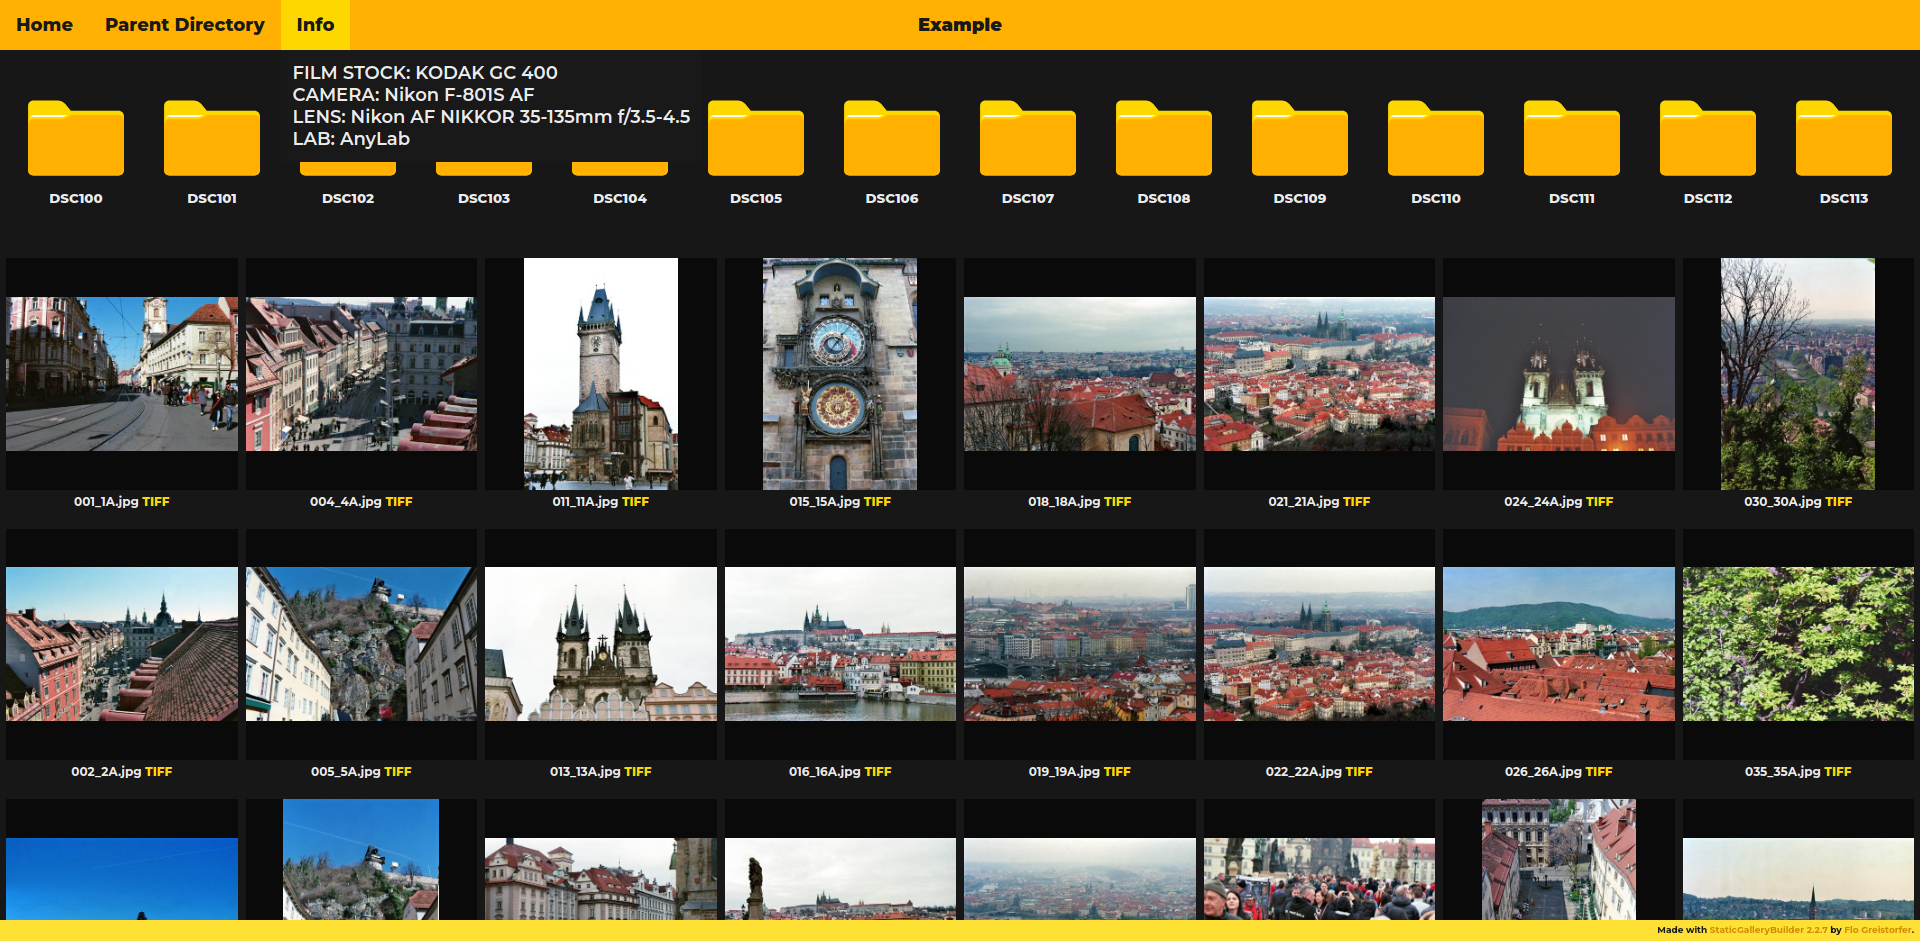
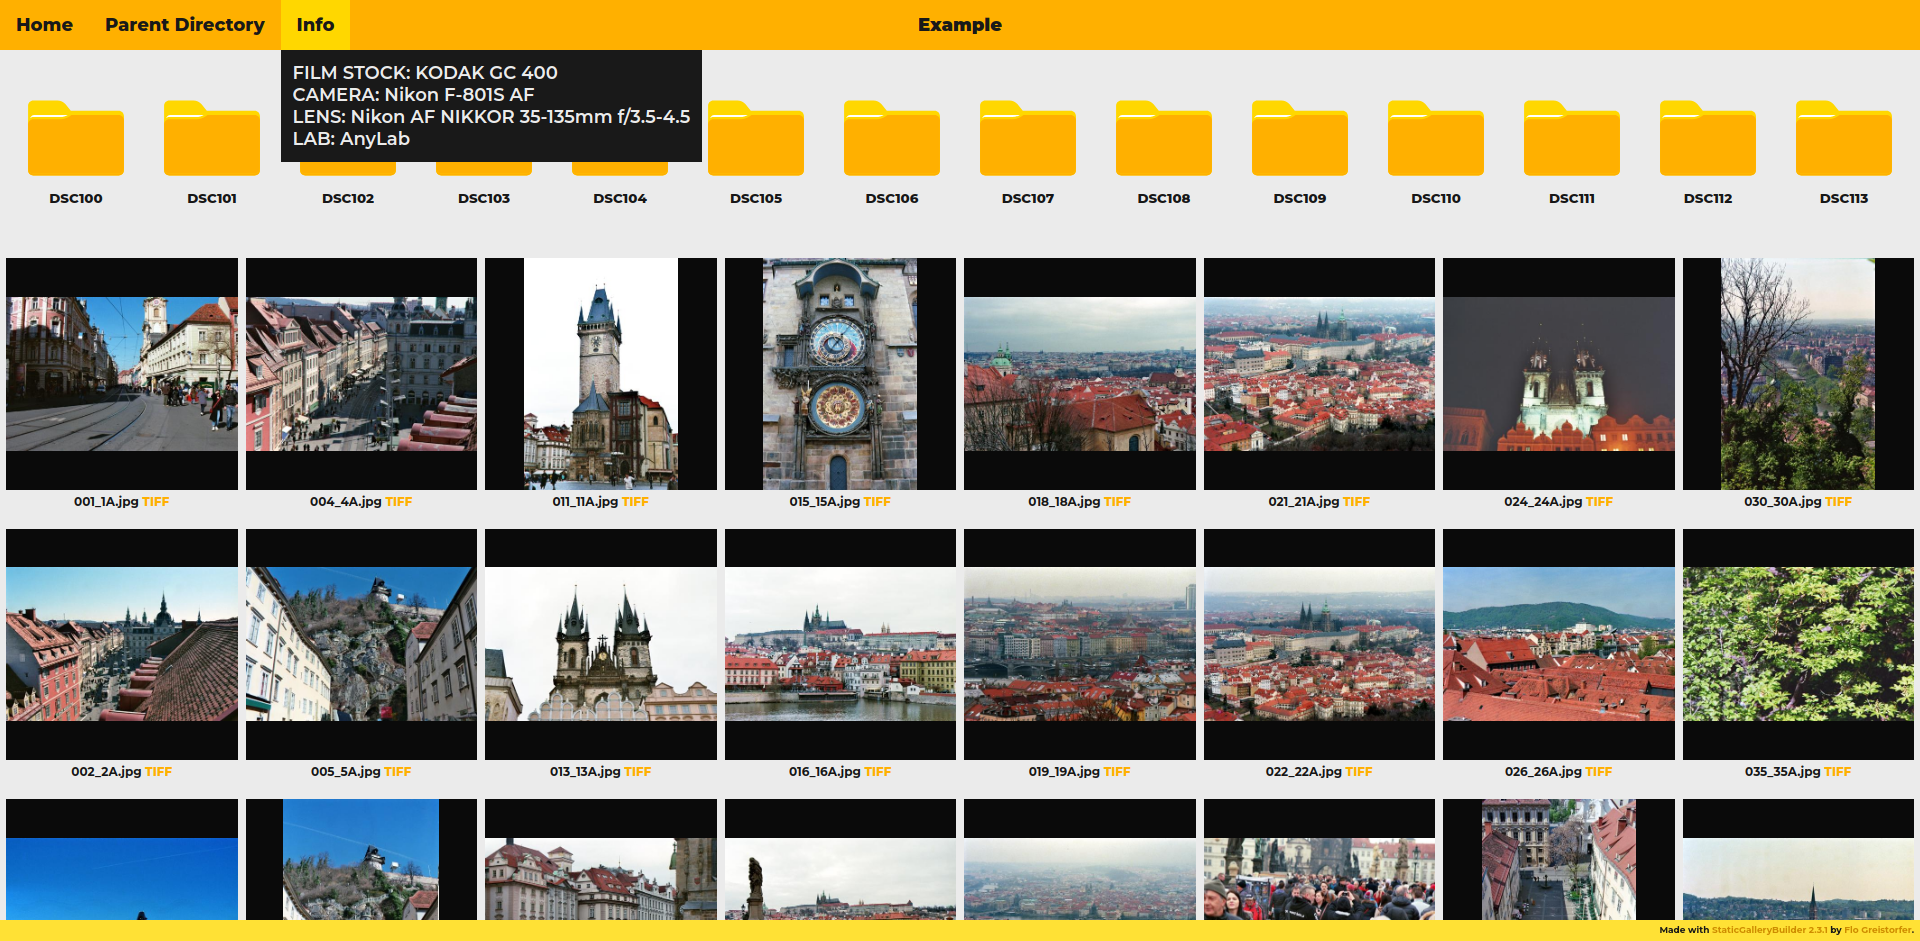
modified themes and added logging to preview generator

diff --git a/carnation.css b/carnation.css
@@ -5,22 +5,22 @@
   --color2: #b22222;
   --color3: #ff4500;
   --color4: #6e0000;
-  --bcolor1: #ebebeb;
+  --bcolor1: #171717;
   --bcolor2: #191919;
-  --bcolor3: #171717;
+  --bcolor3: #ebebeb;
   --bcolor4: #0a0a0a;
 }
 
 .navbar {
   font-weight: bold;
-  color: var(--bcolor1);
+  color: var(--bcolor3);
   background-color: var(--color1);
   font-weight: 900;
 }
 
 .navbar li a {
   font-weight: 800;
-  color: var(--bcolor1);
+  color: var(--bcolor3);
 }
 
 /* Change the link color on hover */
@@ -30,7 +30,7 @@
 }
 
 .footer {
-  color: var(--bcolor1);
+  color: var(--bcolor3);
   background-color: var(--color3);
   font-weight: 700;
 }

diff --git a/cornflower.css b/cornflower.css
@@ -5,22 +5,22 @@
   --color2: #1346a4;
   --color3: #0e3377;
   --color4: #3674e7;
-  --bcolor1: #ebebeb;
+  --bcolor1: #171717;
   --bcolor2: #191919;
-  --bcolor3: #171717;
+  --bcolor3: #ebebeb;
   --bcolor4: #0a0a0a;
 }
 
 .navbar {
   font-weight: bold;
-  color: var(--bcolor1);
+  color: var(--bcolor3);
   background-color: var(--color1);
   font-weight: 900;
 }
 
 .navbar li a {
   font-weight: 800;
-  color: var(--bcolor1);
+  color: var(--bcolor3);
 }
 
 /* Change the link color on hover */
@@ -30,7 +30,7 @@
 }
 
 .footer {
-  color: var(--bcolor1);
+  color: var(--bcolor3);
   background-color: var(--color3);
   font-weight: 700;
 }

diff --git a/ivy.css b/ivy.css
@@ -5,22 +5,22 @@
   --color2: #008000;
   --color3: #32cd32;
   --color4: #004300;
-  --bcolor1: #ebebeb;
+  --bcolor1: #171717;
   --bcolor2: #191919;
-  --bcolor3: #171717;
+  --bcolor3: #ebebeb;
   --bcolor4: #0a0a0a;
 }
 
 .navbar {
   font-weight: bold;
-  color: var(--bcolor1);
+  color: var(--bcolor3);
   background-color: var(--color1);
   font-weight: 900;
 }
 
 .navbar li a {
   font-weight: 800;
-  color: var(--bcolor1);
+  color: var(--bcolor3);
 }
 
 /* Change the link color on hover */
@@ -30,7 +30,7 @@
 }
 
 .footer {
-  color: var(--bcolor1);
+  color: var(--bcolor3);
   background-color: var(--color3);
   font-weight: 700;
 }

diff --git a/sunflower.css b/sunflower.css
@@ -5,9 +5,9 @@
   --color2: #ffd700;
   --color3: #ffe135;
   --color4: #ce8c00;
-  --bcolor1: #ebebeb;
+  --bcolor1: #171717;
   --bcolor2: #191919;
-  --bcolor3: #171717;
+  --bcolor3: #ebebeb;
   --bcolor4: #0a0a0a;
 }
 
@@ -60,7 +60,7 @@
 
 .row a {
   font-weight: 800;
-  color: var(--color2);
+  color: var(--color1);
   text-decoration: none;
 }
 
@@ -70,7 +70,7 @@
 
 .tooltiptext {
   font-weight: 600;
-  color: var(--bcolor1);
+  color: var(--bcolor3);
   background-color: var(--bcolor2);
 }
 
